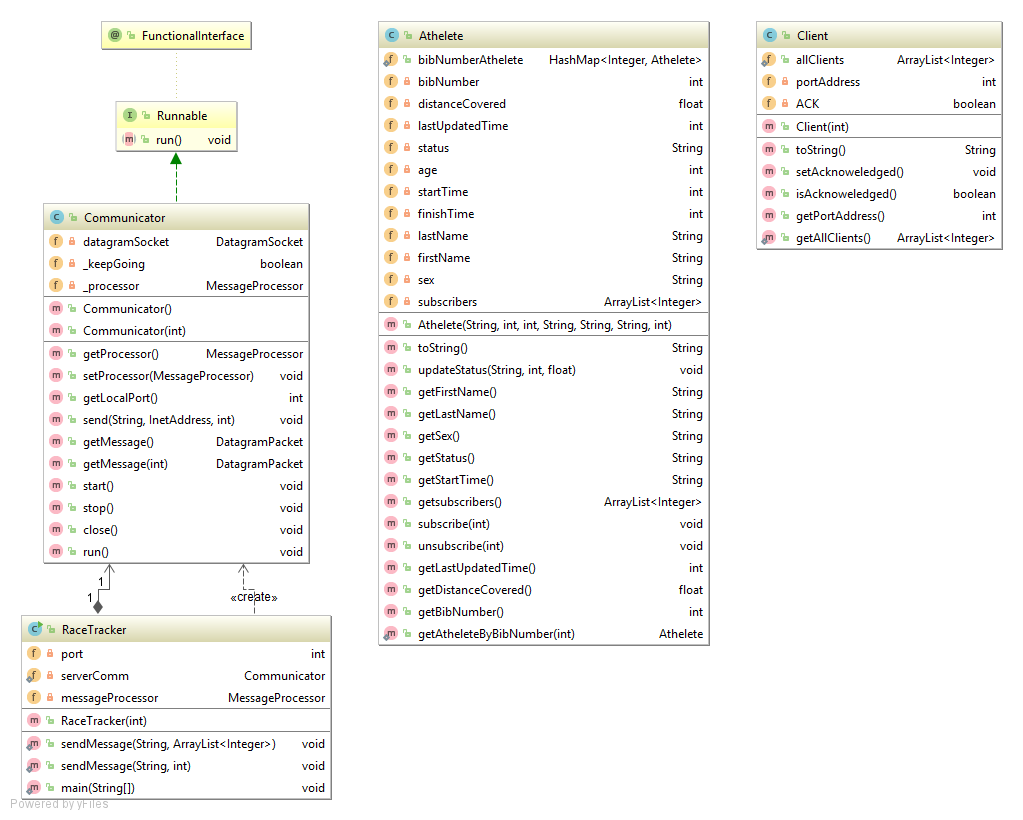
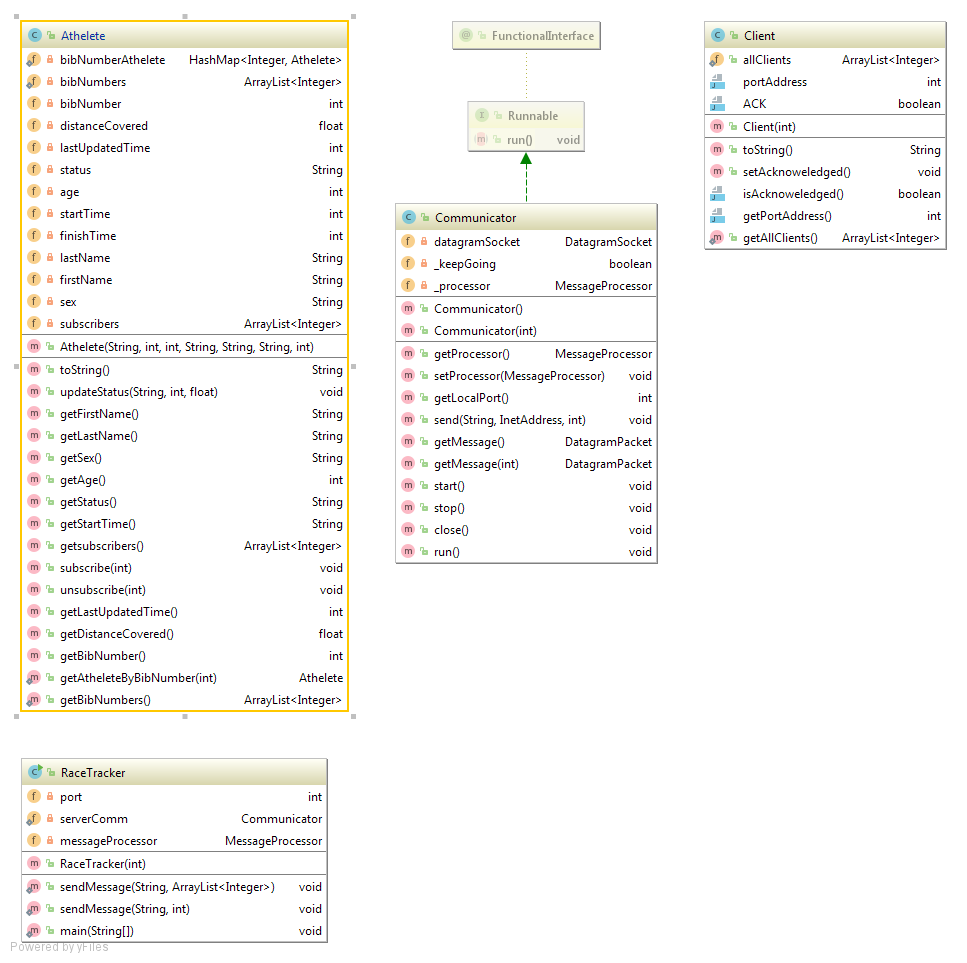
Client can startup in middle of race

Changed region(s): [[0.0, 0.0, 0.9928, 1.0]]

diff --git a/src/test/java/tracker/AtheleteTest.java b/src/test/java/tracker/AtheleteTest.java
@@ -2,18 +2,39 @@ package tracker;
 
 import org.junit.Test;
 
+import java.util.ArrayList;
+
 public class AtheleteTest {
 
     @Test
     public void testConstruction() {
         Athelete a1 = new Athelete("Registered", 4, 40, "Wasim", "Khan", "M", 30);
-        Athelete a2 = new Athelete("OnCourse", 10, 100, "Shelly", "Rice", "F", 30);
         assert a1.getStatus().equals("Registered");
         assert a1.getFirstName().equals("Wasim");
         assert a1.getLastName().equals("Khan");
         assert a1.getStartTime().equals("40");
         assert a1.getBibNumber() == 4;
-        assert a1.getStatus().equals("Registered");
+        assert a1.getAge() == 30;
+        assert a1.getSex().equals("M");
+        assert Athelete.getAtheleteByBibNumber(4).equals(a1);
+    }
+
+    public void testGetBibNumbers(){
+        Athelete a1 = new Athelete("Registered", 24, 30, "Wasim", "Khan", "M", 30);
+        Athelete a2 = new Athelete("Registered", 43, 47, "Mary", "Kom", "F", 19);
+        ArrayList<Integer> bibNumbers = Athelete.getBibNumbers();
+        ArrayList<Integer> actualBibNumbers = new ArrayList<Integer>();
+        actualBibNumbers.add(24);
+        actualBibNumbers.add(43);
+        assert actualBibNumbers.equals(bibNumbers);
+    }
+
+    public void testUpdateStatus() {
+        Athelete a1 = new Athelete("Registered", 4, 40, "Wasim", "Khan", "M", 30);
+        a1.updateStatus("Finish", 4000, 1233);
+        assert a1.getDistanceCovered() == 1233;
+        assert a1.getLastUpdatedTime() == 4000;
+        assert a1.getStartTime().equals("40");
     }
 
     @Test
@@ -29,6 +50,12 @@ public class AtheleteTest {
 
         Athelete athelete2 = new Athelete("Registered", 10, 100, "Shelly", "Rice", "F", 30);
         athelete2.subscribe(c2Port);
+
+        ArrayList<Integer> subscribers = athelete1.getsubscribers();
+        ArrayList<Integer> actualSubscribers = new ArrayList<Integer>();
+        actualSubscribers.add(c1Port);
+        actualSubscribers.add(c2Port);
+        assert subscribers.equals(actualSubscribers);
     }
 
     @Test
@@ -52,5 +79,9 @@ public class AtheleteTest {
         athelete2.subscribe(c1Port);
     }
 
+    public void testGetAtheleteByBibNumber() {
+        Athelete a1 = new Athelete("Registered", 4, 40, "Wasim", "Khan", "M", 30);
+        assert Athelete.getAtheleteByBibNumber(4).equals(a1);
+    }
 
 }

diff --git a/src/main/java/tracker/Messages/HelloProcessor.java b/src/main/java/tracker/Messages/HelloProcessor.java
@@ -1,13 +1,15 @@
 package tracker.Messages;
 
+import tracker.Athelete;
 import tracker.Communicator;
 import tracker.Client;
+import tracker.RaceTracker;
 
 import java.net.InetAddress;
 
 public class HelloProcessor extends Message {
     public HelloProcessor(String message, InetAddress address, int port) {
-        super.Message(message, address,port);
+        super.Message(message, address, port);
     }
 
     public void execute() throws Exception {
@@ -18,14 +20,17 @@ public class HelloProcessor extends Message {
         System.out.println(client);
 
         // Send out a race stared message to client if you have not already
-        if (!client.isAcknoweledged()) {
-            Communicator trackComm = new Communicator();
+        if (!client.isAcknoweledged() || Athelete.getBibNumbers() != null || RaceStartedProcessor.getRaceStartedMessage() != null) {
             String raceStartedMessage = RaceStartedProcessor.getRaceStartedMessage();
             if (raceStartedMessage != null) {
-                trackComm.send(raceStartedMessage, InetAddress.getLocalHost(), port);
+                RaceTracker.sendMessage(raceStartedMessage, port);
                 client.setAcknoweledged();
             }
-            trackComm.close();
+            for (Integer bibNumber : Athelete.getBibNumbers()) {
+                Athelete a = Athelete.getAtheleteByBibNumber(bibNumber);
+                String boardcastMessage = "Athlete," + bibNumber + "," + a.getFirstName() + "," + a.getLastName() + "," + a.getSex() + "," + a.getAge();
+                RaceTracker.sendMessage(boardcastMessage, port);
+            }
         }
     }
 

diff --git a/src/main/java/tracker/Athelete.java b/src/main/java/tracker/Athelete.java
@@ -4,7 +4,8 @@ import java.util.ArrayList;
 import java.util.HashMap;
 
 public class Athelete {
-    public static HashMap<Integer, Athelete> bibNumberAthelete = new HashMap<Integer, Athelete>();
+    private static HashMap<Integer, Athelete> bibNumberAthelete = new HashMap<Integer, Athelete>();
+    private static ArrayList<Integer> bibNumbers = new ArrayList<Integer>(); // list of registered athletes
 
     private int bibNumber;
     private float distanceCovered;
@@ -28,9 +29,9 @@ public class Athelete {
         this.firstName = firstName;
         this.lastName = lastName;
         this.startTime = time;
-        System.out.println(this);
         subscribers = new ArrayList<Integer>(); // list of subscribers port address
         Athelete.bibNumberAthelete.put(bibNumber, this);
+        Athelete.bibNumbers.add(bibNumber);
     }
 
     public String toString() {
@@ -59,6 +60,7 @@ public class Athelete {
     public String getSex() {
         return this.sex;
     }
+    public int getAge(){return this.age;}
 
     public String getStatus() {
         return this.status;
@@ -102,5 +104,9 @@ public class Athelete {
 
     public static Athelete getAtheleteByBibNumber(int bibNumber) {
         return Athelete.bibNumberAthelete.get(bibNumber);
+    }
+
+    public static ArrayList<Integer> getBibNumbers() {
+        return Athelete.bibNumbers;
     }
 }

diff --git a/src/main/java/tracker/Messages/Message.java b/src/main/java/tracker/Messages/Message.java
@@ -27,12 +27,18 @@ public class Message {
             return new UnsubscribeProcessor(message, address, port);
         } else if (parts[0].equals("OnCourse")) {
             return new OnCourseProcessor(message, address, port);
+
         } else if (parts[0].equals("DidNotStart")) {
-            return new AtheleteStatusProcessor(message, address, port);
+            return new AthleteStartedProcessor(message, address, port);
+
         } else if (parts[0].equals("Started")) {
             return new AthleteStartedProcessor(message, address, port);
         } else if (parts[0].equals("Finished")) {
             return new AthleteFinishedProcessor(message, address, port);
+
+        } else if (parts[0].equals("DidNotFinish")) {
+            return new AthleteFinishedProcessor(message, address, port);
+
         } else if (parts[0].equals("Registered")) {
             return new NewAtheleteProcessor(message, address, port);
         } else {

diff --git a/src/main/java/tracker/Messages/AtheleteStatusProcessor.java b/src/main/java/tracker/Messages/AtheleteStatusProcessor.java
@@ -20,7 +20,7 @@ public class AtheleteStatusProcessor extends Message {
         String timeElapsed = messages[2];
         float distanceCovered = Float.valueOf(messages[3]);
 
-        Athelete a = Athelete.bibNumberAthelete.get(Integer.valueOf(bibNumber));
+        Athelete a = Athelete.getAtheleteByBibNumber(Integer.valueOf(bibNumber));
         if (a != null) {
             a.updateStatus(status, Integer.valueOf(timeElapsed), distanceCovered);
             System.out.println("Updated Athelete: " + a);

diff --git a/src/main/java/tracker/Messages/OnCourseProcessor.java b/src/main/java/tracker/Messages/OnCourseProcessor.java
@@ -19,7 +19,7 @@ public class OnCourseProcessor extends Message {
         String timeElapsed = messages[2];
         float distanceCovered = Float.valueOf(messages[3]);
 
-        Athelete a = Athelete.bibNumberAthelete.get(Integer.valueOf(bibNumber));
+        Athelete a =Athelete.getAtheleteByBibNumber(Integer.valueOf(bibNumber));
         if (a != null) {
             a.updateStatus(status, Integer.valueOf(timeElapsed), distanceCovered);
             System.out.println("Updated Athelete: " + a);

diff --git a/src/main/java/tracker/Messages/AthleteFinishedProcessor.java b/src/main/java/tracker/Messages/AthleteFinishedProcessor.java
@@ -18,7 +18,7 @@ public class AthleteFinishedProcessor extends Message {
         String bibNumber = messages[1];
         String startTime = messages[2];
 
-        Athelete a = Athelete.bibNumberAthelete.get(Integer.valueOf(bibNumber));
+        Athelete a = Athelete.getAtheleteByBibNumber(Integer.valueOf(bibNumber));
 
         if (a != null) {
             a.updateStatus(status, Integer.valueOf(startTime), a.getDistanceCovered());

diff --git a/src/main/java/tracker/Messages/AthleteStartedProcessor.java b/src/main/java/tracker/Messages/AthleteStartedProcessor.java
@@ -19,7 +19,7 @@ public class AthleteStartedProcessor extends Message {
         String startTime = messages[2];
         float distanceCovered = 0;
 
-        Athelete a = Athelete.bibNumberAthelete.get(Integer.valueOf(bibNumber));
+        Athelete a = Athelete.getAtheleteByBibNumber(Integer.valueOf(bibNumber));
 
         if (a != null) {
             a.updateStatus(status, Integer.valueOf(startTime), distanceCovered);

diff --git a/src/main/java/tracker/Messages/SubscribeProcessor.java b/src/main/java/tracker/Messages/SubscribeProcessor.java
@@ -1,6 +1,7 @@
 package tracker.Messages;
 
 import tracker.Athelete;
+import tracker.Client;
 import tracker.RaceTracker;
 
 import java.net.InetAddress;
